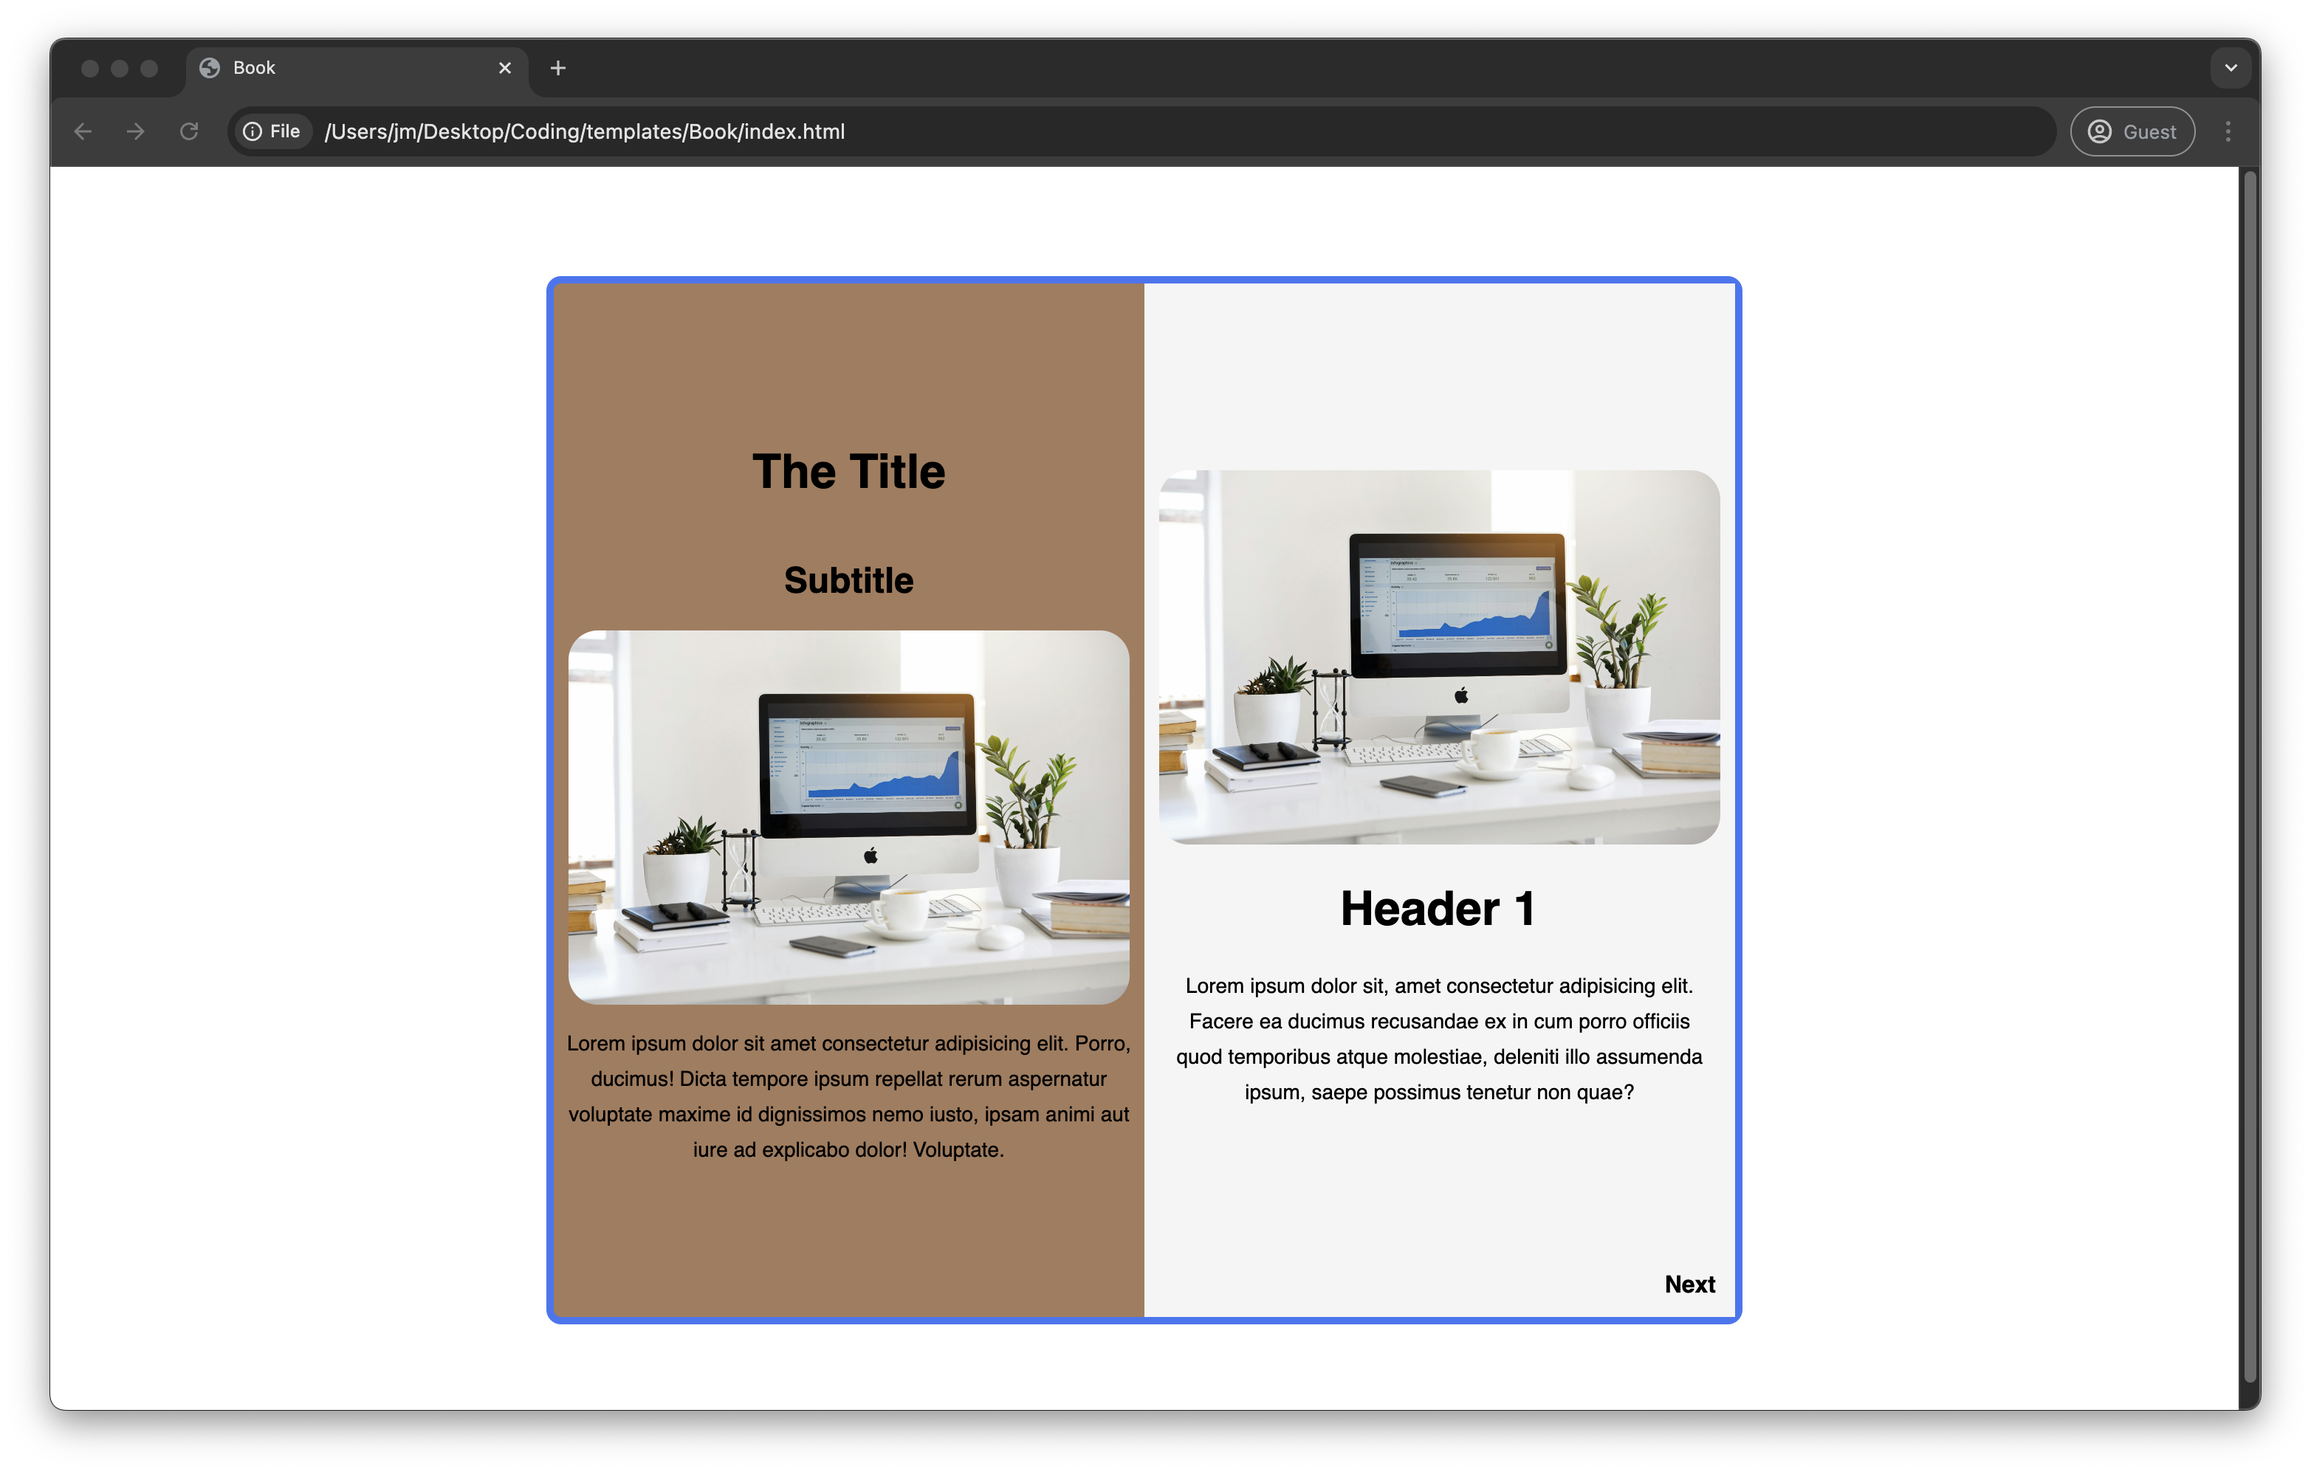
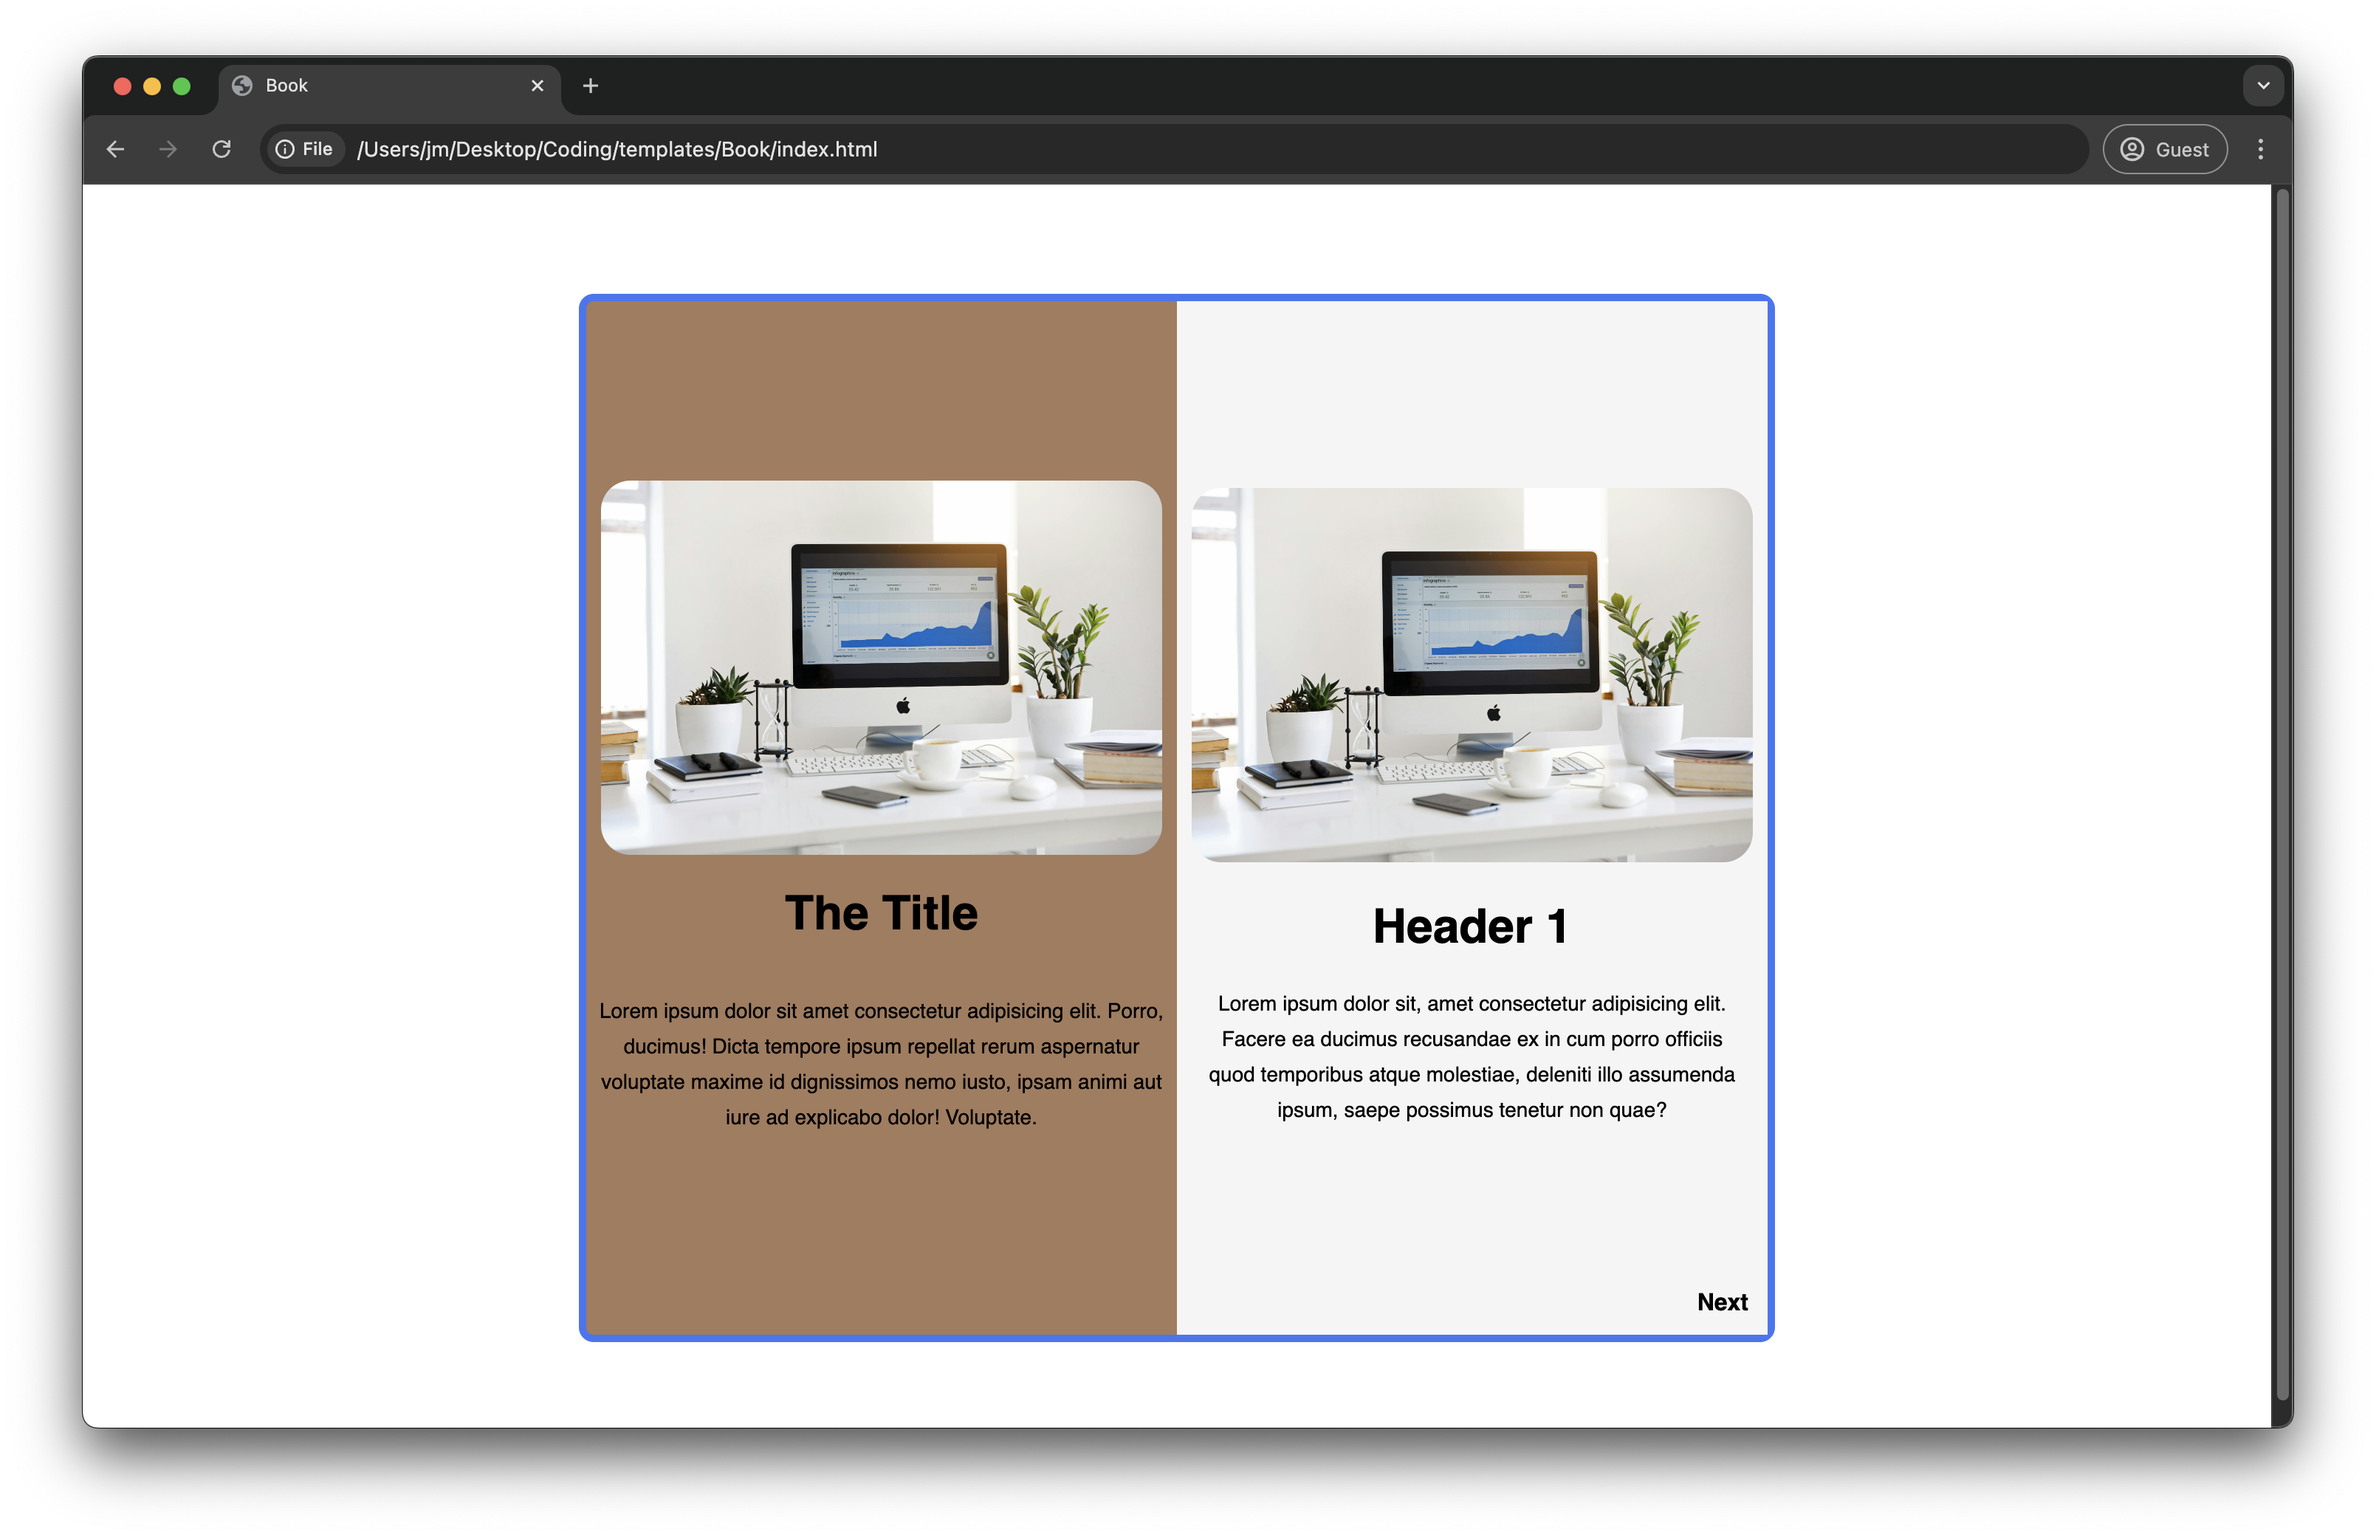
Realigned the pictures

Changed region(s): [[0.0, 0.0, 0.9917, 0.995]]

diff --git a/Book/index.html b/Book/index.html
@@ -14,9 +14,8 @@
           <input type="checkbox" id="c3" />
 
           <div id="cover">
-            <h1 align="center">The Title</h1>
-            <h2>Subtitle</h2>
             <img src="./Placeholder.png" class="site">
+            <h1 align="center">The Title</h1>
             <p align="center">
               Lorem ipsum dolor sit amet consectetur adipisicing elit. Porro, ducimus! Dicta tempore ipsum repellat rerum aspernatur voluptate maxime id dignissimos nemo iusto, ipsam animi aut iure ad explicabo dolor! Voluptate.
             </p>
